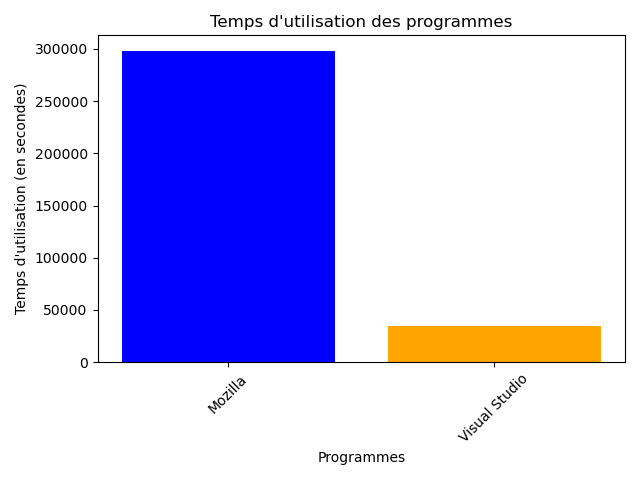
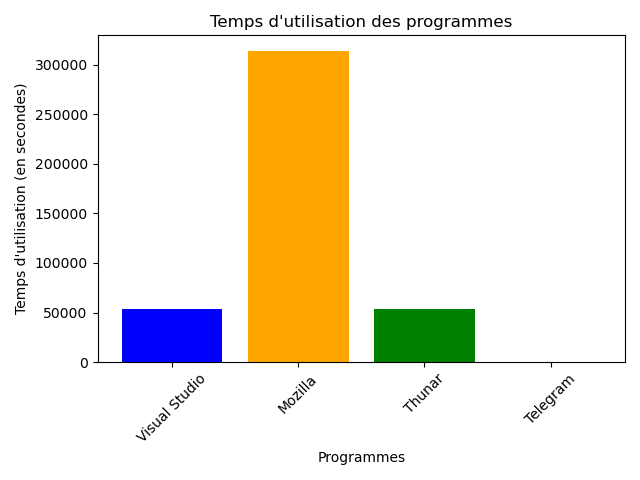
Add files via upload

diff --git a/static/style.css b/static/style.css
@@ -12,6 +12,7 @@ body {
     color: white;
     font-family: Arial, sans-serif;
     position: relative; /* Nécessaire pour que les éléments absolus soient positionnés par rapport au body */
+    overflow: hidden; /* Empêche le défilement */
 }
 
 header {
@@ -50,7 +51,7 @@ nav a:hover {
     font-family: Arial, sans-serif;
 }
 
-.container {
+.container, .container2 {
     flex: 1; /* Prend tout l'espace disponible */
     display: flex;
     flex-direction: column; /* Dispose les éléments verticalement */
@@ -58,8 +59,8 @@ nav a:hover {
     align-items: flex-start; /* Aligne les éléments à gauche */
     padding: 1.25em; /* 20px = 1.25em */
     position: relative; /* Nécessaire pour le positionnement absolu des éléments enfants */
+    overflow: auto; /* Ajoute un défilement si le contenu dépasse */
 }
-
 
 .dashboard {
     display: flex;
@@ -73,10 +74,16 @@ nav a:hover {
     box-shadow: 0 0.25em 0.625em rgba(0, 0, 0, 0.3); /* 4px = 0.25em, 10px = 0.625em */
     padding: 1.25em; /* 20px = 1.25em */
     margin: 0.625em; /* 10px = 0.625em */
-    flex: 1 1 18.75em; /* 300px = 18.75em */
+    flex: 1 1 auto; /* Permet aux cartes de s'adapter à leur contenu */
     max-width: 37.5em; /* 600px = 37.5em */
     text-align: left; /* Aligne le texte à gauche */
+    min-height: 200px; /* Hauteur minimale pour s'assurer que le contenu est visible */
+    display: flex; /* Utiliser flex pour aligner le contenu */
+    flex-direction: column; /* Disposer les éléments verticalement */
+    justify-content: flex-start; /* Aligner le contenu en haut */
 }
+
+
 
 .card h2 {
     font-size: 1.5em;
@@ -186,9 +193,10 @@ footer {
 @media (max-width: 48em) { /* 768px = 48em */
     .card {
         flex: 1 1 90%; /* Les cartes prennent 90% de la largeur */
-        max-width: 30; /* Limite la largeur à 480px */
+        max-width: 50; /* Limite la largeur à 480px */
         margin: 0 auto; /* Centre les cartes horizontalement */
     }
+
 
     .circle {
         width: 30vw; /* Ajuste la taille du cercle pour les petits écrans */

diff --git a/templates/statistiques.html b/templates/statistiques.html
@@ -7,22 +7,7 @@
     <title>Statistiques</title>
     <script src="https://code.jquery.com/jquery-3.6.0.min.js"></script>
     <script src="{{ url_for('static', filename='script.js') }}"></script> 
-    <style>
-        .flex-container {
-            display: flex;
-            justify-content: space-between; /* Espace entre les éléments */
-        }
-        .form-control {
-            margin-right: 20px; /* Espace entre le select et le graphique */
-        }
-        .resultats-container {
-            margin-top: 20px; /* Espace au-dessus des résultats */
-            justify-content: right; /* Centrer les résultats */
-            display: flex; /* Utiliser flexbox pour centrer */
 
-
-        }
-    </style>
 
 </head>
 <body>
@@ -55,12 +40,15 @@
         </form>
 
         <div id="resultatsContainer"></div> <!-- Conteneur pour les résultats -->
-                <div class="card mt-4"> <!-- Ajout de la classe mt-4 pour espacer -->
-                    <h2>Programme utilisation</h2>
-                    <img src="{{ url_for('static', filename='fig1.png') }}" alt="Programme utilisation" style="width: 100%; height: auto;">
+                
+    </main>
+    <div class="container2">
+        <div class="card mt-4" style='justify-content:flex-end'> <!-- Ajout de la classe mt-4 pour espacer -->
+                        <h2>Programme utilisation</h2>
+                        <img src="{{ url_for('static', filename='fig1.png') }}" alt="Programme utilisation" style="width: 90%; height: auto;">
+                    </div>
                 </div>
             </div>
         </div>
-    </main>
 </body>
 </html>

diff --git a/analyse_csv.py b/analyse_csv.py
@@ -181,42 +181,46 @@ def mois(mois_choisi):
 
 
 def find_by_program():
+    # Lire le fichier CSV
     df = pd.read_csv(fichier, header=None, names=['Directory', 'Entry Time', 'Exit Time', 'Duration', 'MAC Address'])
 
-    programme = ['Visual Studio', 'Mozilla']
-    pattern = '|'.join(programme)
+    # Liste des programmes à filtrer
+    programmes = ['Visual Studio', 'Mozilla', 'Thunar', 'Telegram']
+    pattern = '|'.join(programmes)
     
     # Filtrer le DataFrame pour les programmes spécifiés
     df_programme = df[df['Directory'].str.contains(pattern, case=False, na=False)]
     df_programme = df_programme.sort_values(by='Duration', ascending=False, ignore_index=True)
     
+    
+    # Dictionnaire pour stocker le temps total par projet
     programme_utilisation = {}
     
     # Calculer le temps total par projet
     for index, row in df_programme.iterrows():
         projet = row['Directory']
         temps = row['Duration']
-        if projet not in programme_utilisation:
-            programme_utilisation[projet] = 0
-        programme_utilisation[projet] += temps
+        programme_utilisation[projet] = programme_utilisation.get(projet, 0) + temps
 
-    counter = {}
+    # Dictionnaire pour compter le temps d'utilisation pour chaque programme
+    counter = {programme: 0 for programme in programmes}
     
     # Compter le temps d'utilisation pour chaque programme
     for projet, temps in programme_utilisation.items():
-        if 'Visual Studio' in projet:
-            counter['Visual Studio'] = counter.get('Visual Studio', 0) + temps
-        elif 'Mozilla' in projet:
-            counter['Mozilla'] = counter.get('Mozilla', 0) + temps
+        for programme in programmes:
+            if programme in projet:
+                counter[programme] += temps
+                break  # Sortir de la boucle une fois le programme trouvé
 
+    # Préparer le résultat pour l'affichage
     result = {}
     for programme, temps in counter.items():
         heures = temps // 3600
         minutes = (temps % 3600) // 60
         result[programme] = f"{heures}h {minutes}m"
 
-        # Création du graphique
-    plt.bar(counter.keys(), counter.values(), color=['blue', 'orange'])
+    # Création du graphique
+    plt.bar(counter.keys(), counter.values(), color=['blue', 'orange', 'green', 'red'])
     plt.xlabel('Programmes')
     plt.ylabel('Temps d\'utilisation (en secondes)')
     plt.title('Temps d\'utilisation des programmes')
